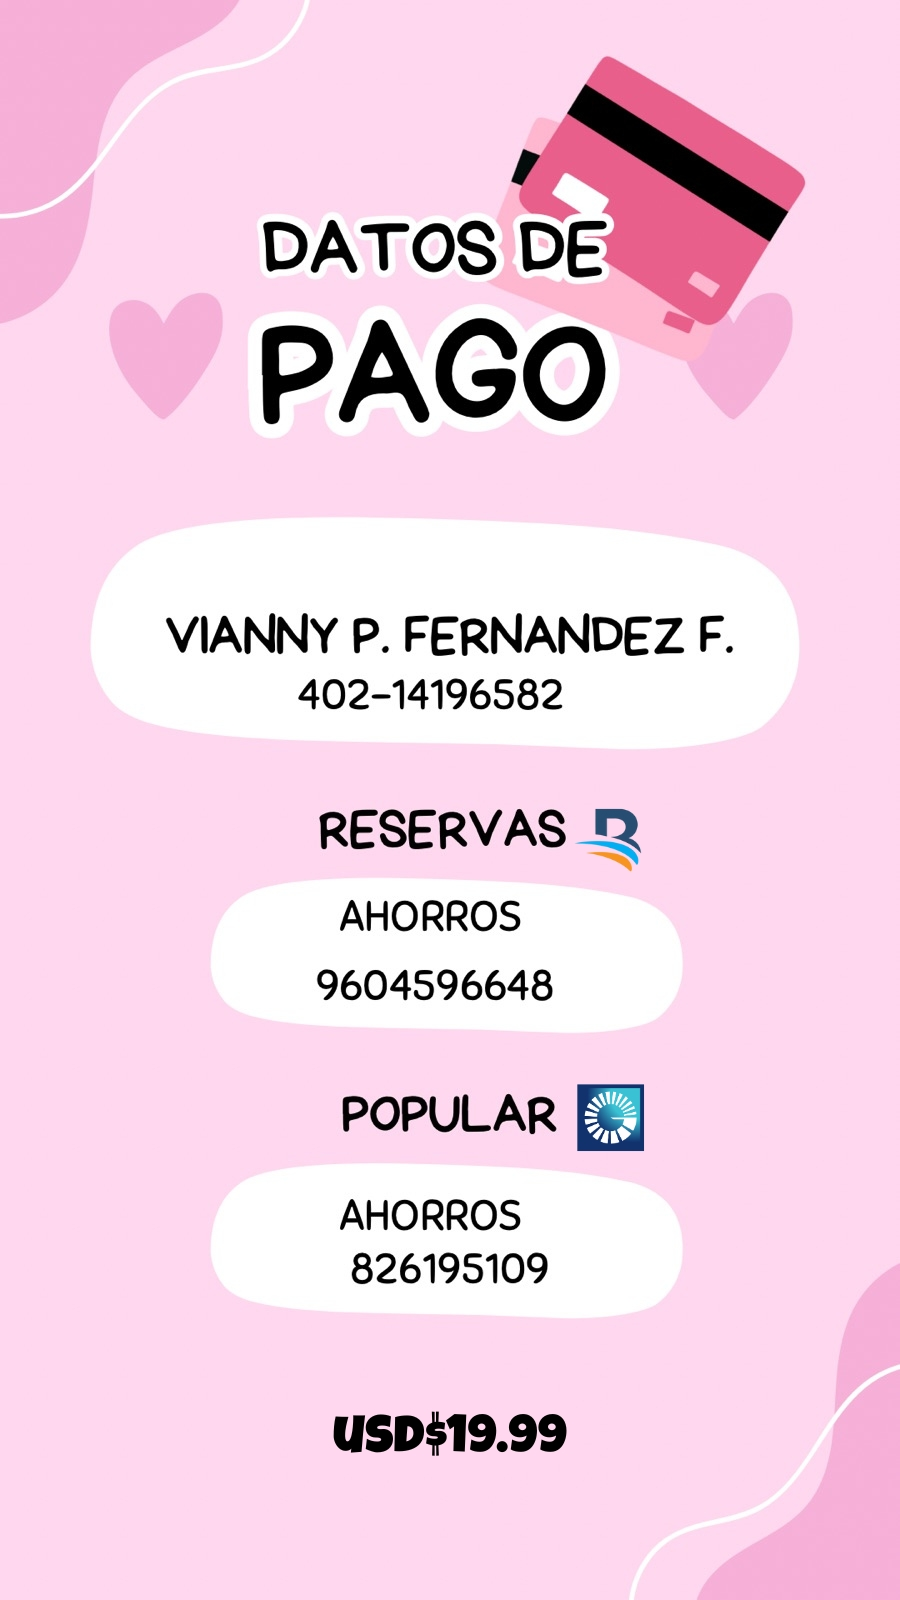
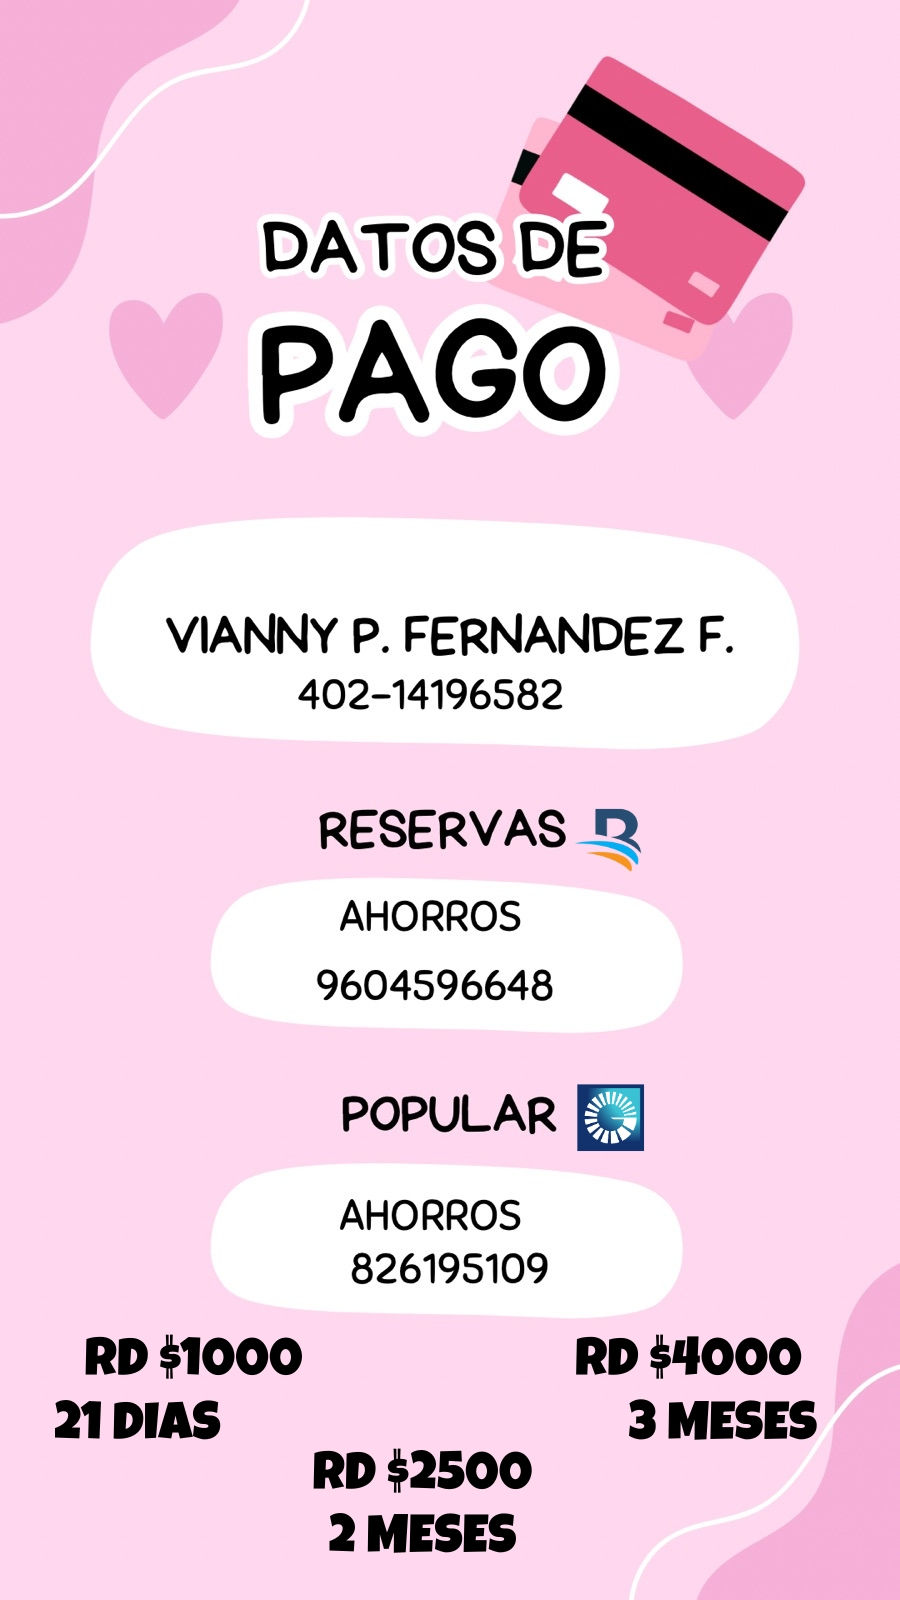
ultimos arreglos

Changed region(s): [[0.3422, 0.8125, 0.9022, 0.9688], [0.0622, 0.8125, 0.3422, 0.9062]]

diff --git a/index.html b/index.html
@@ -115,43 +115,105 @@
 
 
 
-  <!-- Sección Reto 21 Días -->
-  <section id="planes" class="py-5 bg-light">
-    <div class="container">
-      <div class="row align-items-center">
-        <div class="col-md-6 mb-4 mb-md-0">
-          <img src="img/reto21.jpg" alt="Reto 21 Días" class="img-fluid rounded shadow" />
-        </div>
-        <div class="col-md-6 text-center text-md-start">
-          <h2 class="fw-bold">Reto 21 Días</h2>
-          <p class="lead text-muted " style="text-align: justify !important;">
-            Entrena desde casa con un plan estructurado para transformar tu cuerpo en solo 21 días. Ideal para mujeres que buscan resultados rápidos y efectivos.
-          </p>
-          <ul class="list-unstyled mb-3">
-            <li>✅ Entrenamientos diarios</li>
-            <li>✅ Guía alimenticia</li>
-            <li>✅ Soporte por Telegram <a href="https://t.me/vianny_f" target="_blank" rel="noopener noreferrer"><img src="img/Telegramlogo.jpg" alt="Telegram" style="width: 20px; vertical-align: middle;" /></a></li>
-            <li>✅ Sin necesidad de equipos</li>
-          </ul>
-          <h4 class="fw-bold mb-3">$19.99 USD</h4>
-          <button id="btn-agregar-reto"
-              class="btn btn-reto btn-lg agregar-carrito" 
-              data-nombre="Reto 21 Días" 
-              data-precio="19.99">
-              ¡Ordena ya!
-          </button>
+  <!-- Sección Retos -->
+<section id="planes" class="py-5 bg-light">
+  <div class="container">
 
+    <!-- Título de sección -->
+    <div class="text-center mb-5">
+      <h2 class="fw-bold">Planes de Entrenamiento</h2>
+      <p class="text-muted">Elige el reto que se adapte mejor a tus objetivos</p>
+    </div>
 
-        </div>
+    <div class="row align-items-center mb-5">
+      <!-- Imagen -->
+      <div class="col-md-6 mb-4 mb-md-0">
+        <img src="img/reto21.jpg" alt="Reto 21 Días" class="img-fluid rounded shadow" />
+      </div>
+      <!-- Texto -->
+      <div class="col-md-6 text-center text-md-start">
+        <h3 class="fw-bold">Reto 21 Días</h3>
+        <p class="lead text-muted" style="text-align: justify;">
+          Entrena desde casa con un plan estructurado para transformar tu cuerpo en solo 21 días. Ideal para mujeres que buscan resultados rápidos y efectivos.
+        </p>
+        <ul class="list-unstyled mb-3">
+          <li>✅ Entrenamientos diarios</li>
+          <li>✅ Guía alimenticia</li>
+          <li>✅ Soporte por Telegram <a href="https://t.me/vianny_f" target="_blank" rel="noopener noreferrer"><img src="img/Telegramlogo.jpg" alt="Telegram" style="width: 20px; vertical-align: middle;" /></a></li>
+          <li>✅ Sin necesidad de equipos</li>
+        </ul>
+        <h4 class="fw-bold mb-3">RD$ 1,000</h4>
+        <button  id="btn-agregar-reto" class="btn btn-reto btn-lg agregar-carrito"
+          data-nombre="Reto 21 Días" 
+          data-precio="1000">
+          ¡Ordena ya!
+        </button>
       </div>
     </div>
-  </section>
+
+    <!-- Reto 2 meses -->
+    <div class="row align-items-center mb-5 flex-md-row-reverse">
+      <!-- Imagen -->
+      <div class="col-md-6 mb-4 mb-md-0">
+        <img src="img/reto2meses.jpg" alt="Reto 2 Meses" class="img-fluid rounded shadow" />
+      </div>
+      <!-- Texto -->
+      <div class="col-md-6 text-center text-md-start">
+        <h3 class="fw-bold">Reto 2 Meses</h3>
+        <p class="lead text-muted" style="text-align: justify;">
+          Dos meses de entrenamiento progresivo para transformar tu cuerpo con más intensidad y metas a mediano plazo.
+        </p>
+        <ul class="list-unstyled mb-3">
+          <li>✅ Rutinas avanzadas</li>
+          <li>✅ Plan nutricional ajustado</li>
+          <li>✅ Seguimiento personalizado</li>
+          <li>✅ Soporte por Telegram <a href="https://t.me/vianny_f" target="_blank" rel="noopener noreferrer"><img src="img/Telegramlogo.jpg" alt="Telegram" style="width: 20px; vertical-align: middle;" /></a></li>
+        </ul>
+        <h4 class="fw-bold mb-3">RD$ 2,500</h4>
+        <button class="btn btn-reto btn-lg agregar-carrito"
+          data-nombre="Reto 2 Meses" 
+          data-precio="2500">
+          ¡Ordena ya!
+        </button>
+      </div>
+    </div>
+
+    <!-- Reto 3 meses -->
+    <div class="row align-items-center">
+      <!-- Imagen -->
+      <div class="col-md-6 mb-4 mb-md-0">
+        <img src="img/reto3meses.jpg" alt="Reto 3 Meses" class="img-fluid rounded shadow" />
+      </div>
+      <!-- Texto -->
+      <div class="col-md-6 text-center text-md-start">
+        <h3 class="fw-bold">Reto 3 Meses</h3>
+        <p class="lead text-muted" style="text-align: justify;">
+          El plan más completo para una transformación duradera, con acompañamiento constante y objetivos bien definidos.
+        </p>
+        <ul class="list-unstyled mb-3">
+          <li>✅ Rutinas personalizadas</li>
+          <li>✅ Guía nutricional por fases</li>
+          <li>✅ Soporte intensivo por 12 semanas</li>
+          <li>✅ Soporte por Telegram <a href="https://t.me/vianny_f" target="_blank" rel="noopener noreferrer"><img src="img/Telegramlogo.jpg" alt="Telegram" style="width: 20px; vertical-align: middle;" /></a></li>
+        </ul>
+        <h4 class="fw-bold mb-3">RD$ 4,000</h4>
+        <button class="btn btn-reto btn-lg agregar-carrito"
+          data-nombre="Reto 3 Meses" 
+          data-precio="4000">
+          ¡Ordena ya!
+        </button>
+      </div>
+    </div>
+
+  </div>
+</section>
+
 
   </section>
 
   <section id="beneficios" class="beneficios-section py-5">
   <div class="container">
-    <h2 class="section-title text-center mb-4">Beneficios del Reto 21 Días</h2>
+    <h2 class="section-title text-center mb-4">Beneficios del Reto</h2>
     <div class="row g-4 justify-content-center">
       <div class="col-12 col-sm-6 col-lg-3">
         <div class="beneficio-item h-100">

diff --git a/JS/main.js b/JS/main.js
@@ -234,45 +234,48 @@ document.addEventListener("DOMContentLoaded", () => {
   };
 
   const manejarBotonCarrito = () => {
-    const btnAgregar = document.getElementById('btn-agregar-reto');
-    const cartSidebar = document.getElementById('cartSidebar');
-    const overlay = document.getElementById('overlay');
-    
-    
+  const cartSidebar = document.getElementById('cartSidebar');
+  const overlay = document.getElementById('overlay');
 
+  // Escucha clics en cualquier botón con clase "agregar-carrito"
+  document.addEventListener('click', (e) => {
+    const boton = e.target.closest('.agregar-carrito');
 
-    if (btnAgregar) {
-      btnAgregar.addEventListener('click', () => {
-        const carrito = obtenerCarrito();
-        const id = 'reto-21-dias';
-        const existente = carrito.find(item => item.id === id);
+    if (boton) {
+      const nombre = boton.getAttribute('data-nombre');
+      const precio = boton.getAttribute('data-precio'); // ⬅ NO usar parseFloat aquí
+      const id = nombre.toLowerCase().replace(/\s+/g, '-'); // genera ID como reto-21-dias
 
-        if (existente) {
-          // Ya está en el carrito, no agregamos más
-          mostrarMensajeCarrito('Este producto ya está en el carrito.');
-          return;
-        } else {
+      const carrito = obtenerCarrito();
+      const existente = carrito.find(item => item.id === id);
 
-          cartSidebar.classList.add('open');
-          overlay.classList.add('active');
-          
-          
-          carrito.push({
-            id,
-            nombre: 'Reto 21 Días',
-            precio: 19.99,
-            cantidad: 1
-          });
-        }
+      if (existente) {
+        mostrarMensajeCarrito('Este producto ya está en el carrito.');
+        return;
+      }
 
-        guardarCarrito(carrito);
-        actualizarContadorCarrito();
-        renderCartFull(); // refrescar sidebar en vivo
+      // Mostrar el carrito
+      cartSidebar.classList.add('open');
+      overlay.classList.add('active');
+
+      // Agregar al carrito
+      carrito.push({
+        id,
+        nombre,
+        precio, // lo guardamos como string, tal como está (ej: "1000")
+        cantidad: 1
       });
-    }
 
-    actualizarContadorCarrito();
-  };
+      guardarCarrito(carrito);
+      actualizarContadorCarrito();
+      renderCartFull(); // refresca visualmente
+    }
+  });
+
+  actualizarContadorCarrito();
+};
+
+
 
   const renderCartFull = () => {
   const carrito = obtenerCarrito();
@@ -302,15 +305,16 @@ document.addEventListener("DOMContentLoaded", () => {
     const tr = document.createElement('tr');
 
     tr.innerHTML = `
-      <td>${item.nombre}</td>
-      <td>${item.cantidad}</td>
-      <td>$${item.precio.toFixed(2)}</td>
-      <td>
-        <button class="btn-eliminar" aria-label="Eliminar ${item.nombre}" data-id="${item.id}">
-          🗑
-        </button>
-      </td>
-    `;
+  <td>${item.nombre}</td>
+  <td>${item.cantidad}</td>
+  <td>$${item.precio}</td>
+  <td>
+    <button class="btn-eliminar" aria-label="Eliminar ${item.nombre}" data-id="${item.id}">
+      🗑
+    </button>
+  </td>
+`;
+
 
     tbody.appendChild(tr);
   });

diff --git a/css/style.css b/css/style.css
@@ -116,6 +116,7 @@ a:hover {
   padding: 0.75rem 1.5rem;
   font-size: 0.9rem;
   margin-top: 1.5rem;
+  margin-bottom: 2rem;
   border-radius: 30px;
   transition: background-color 0.3s ease;
 }
